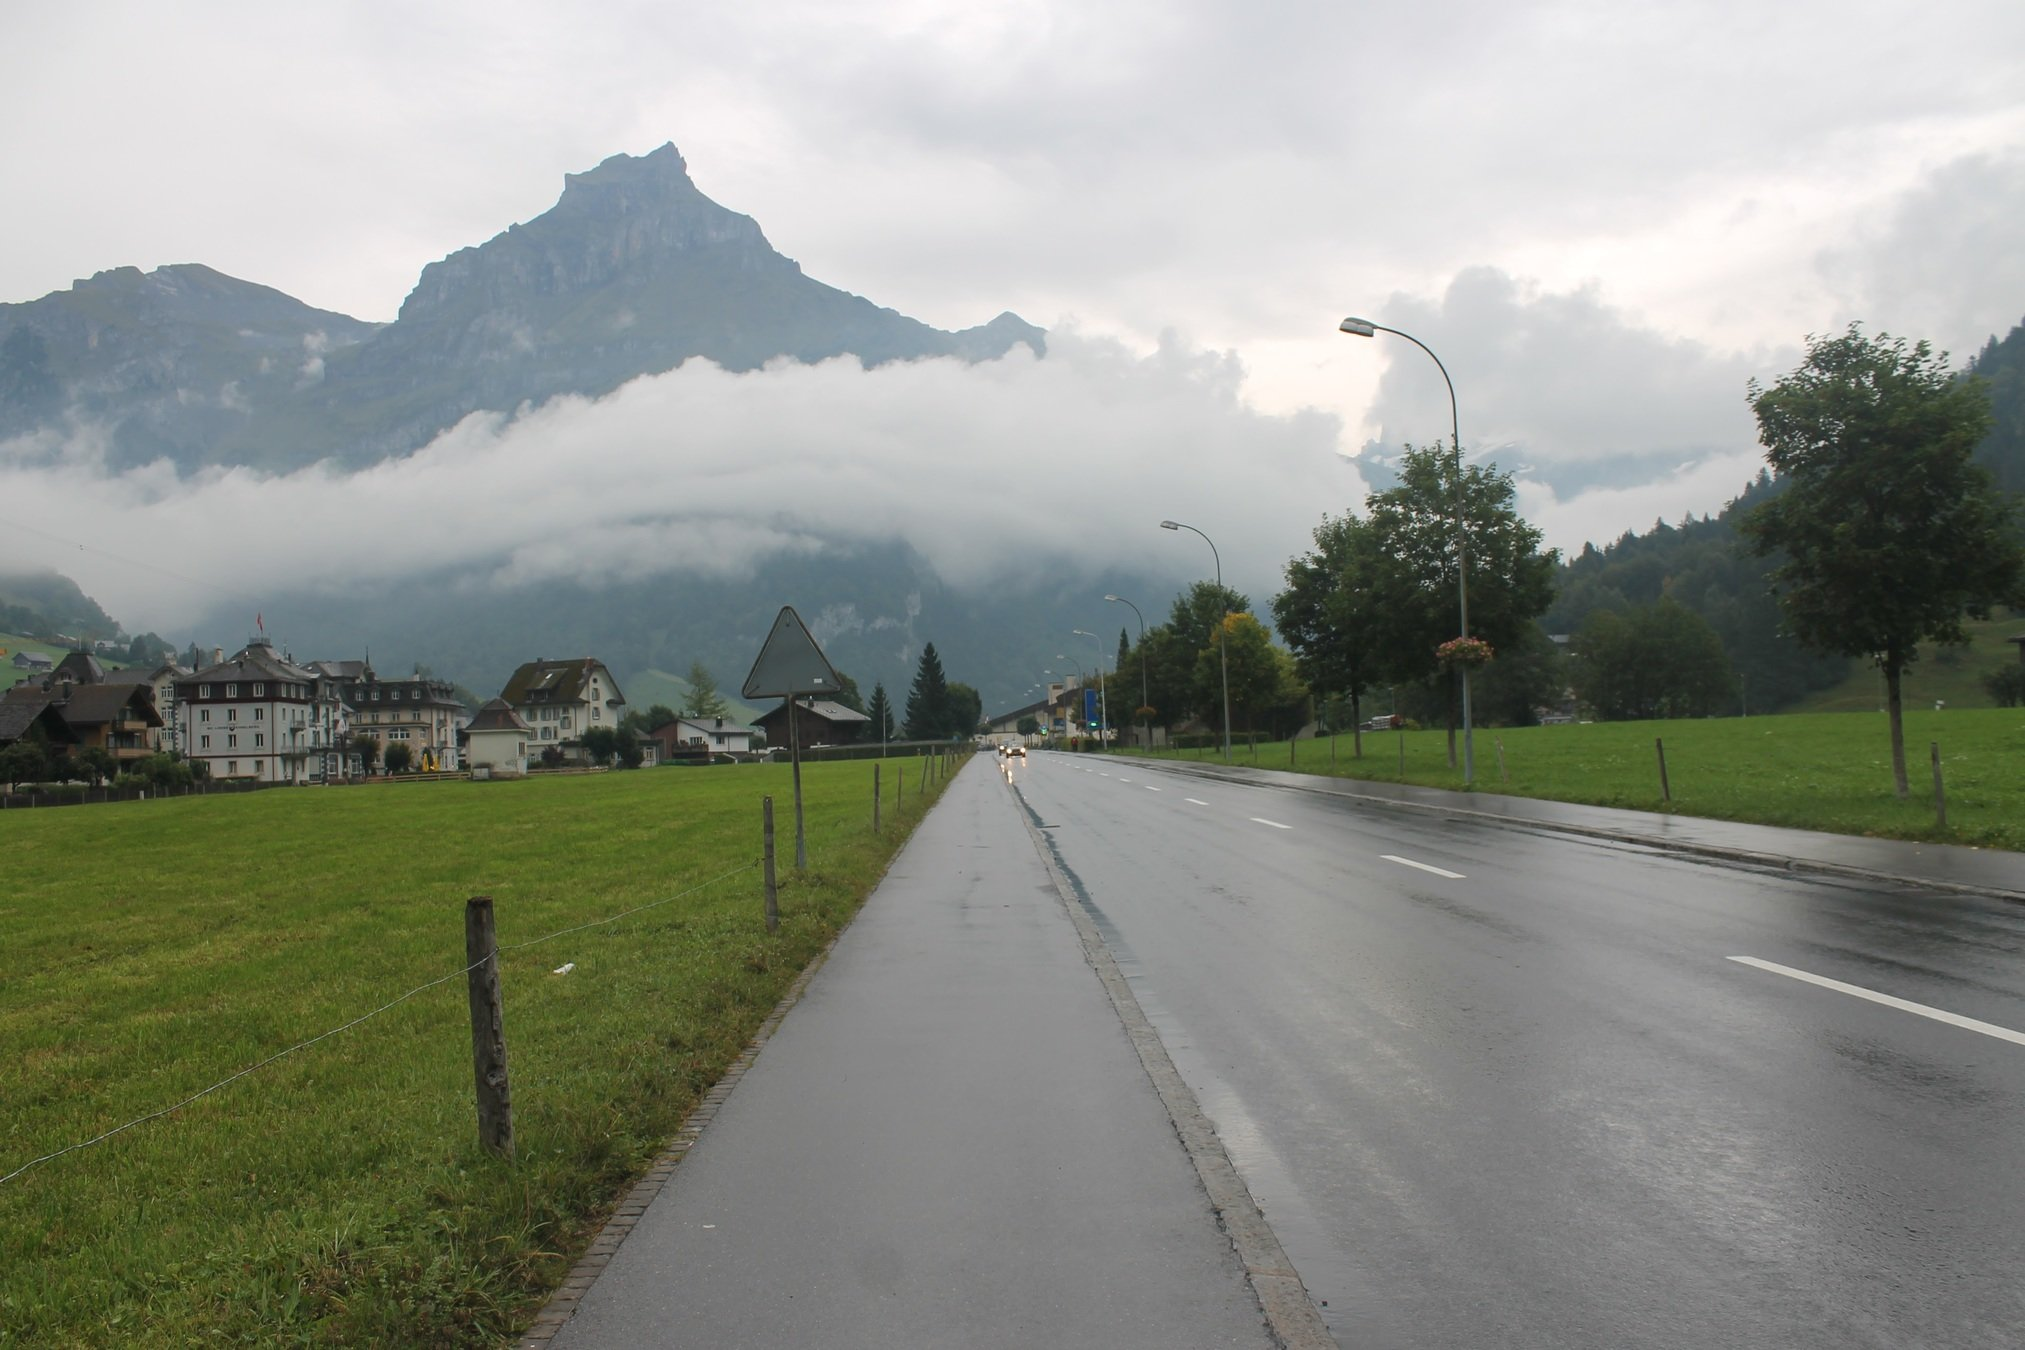
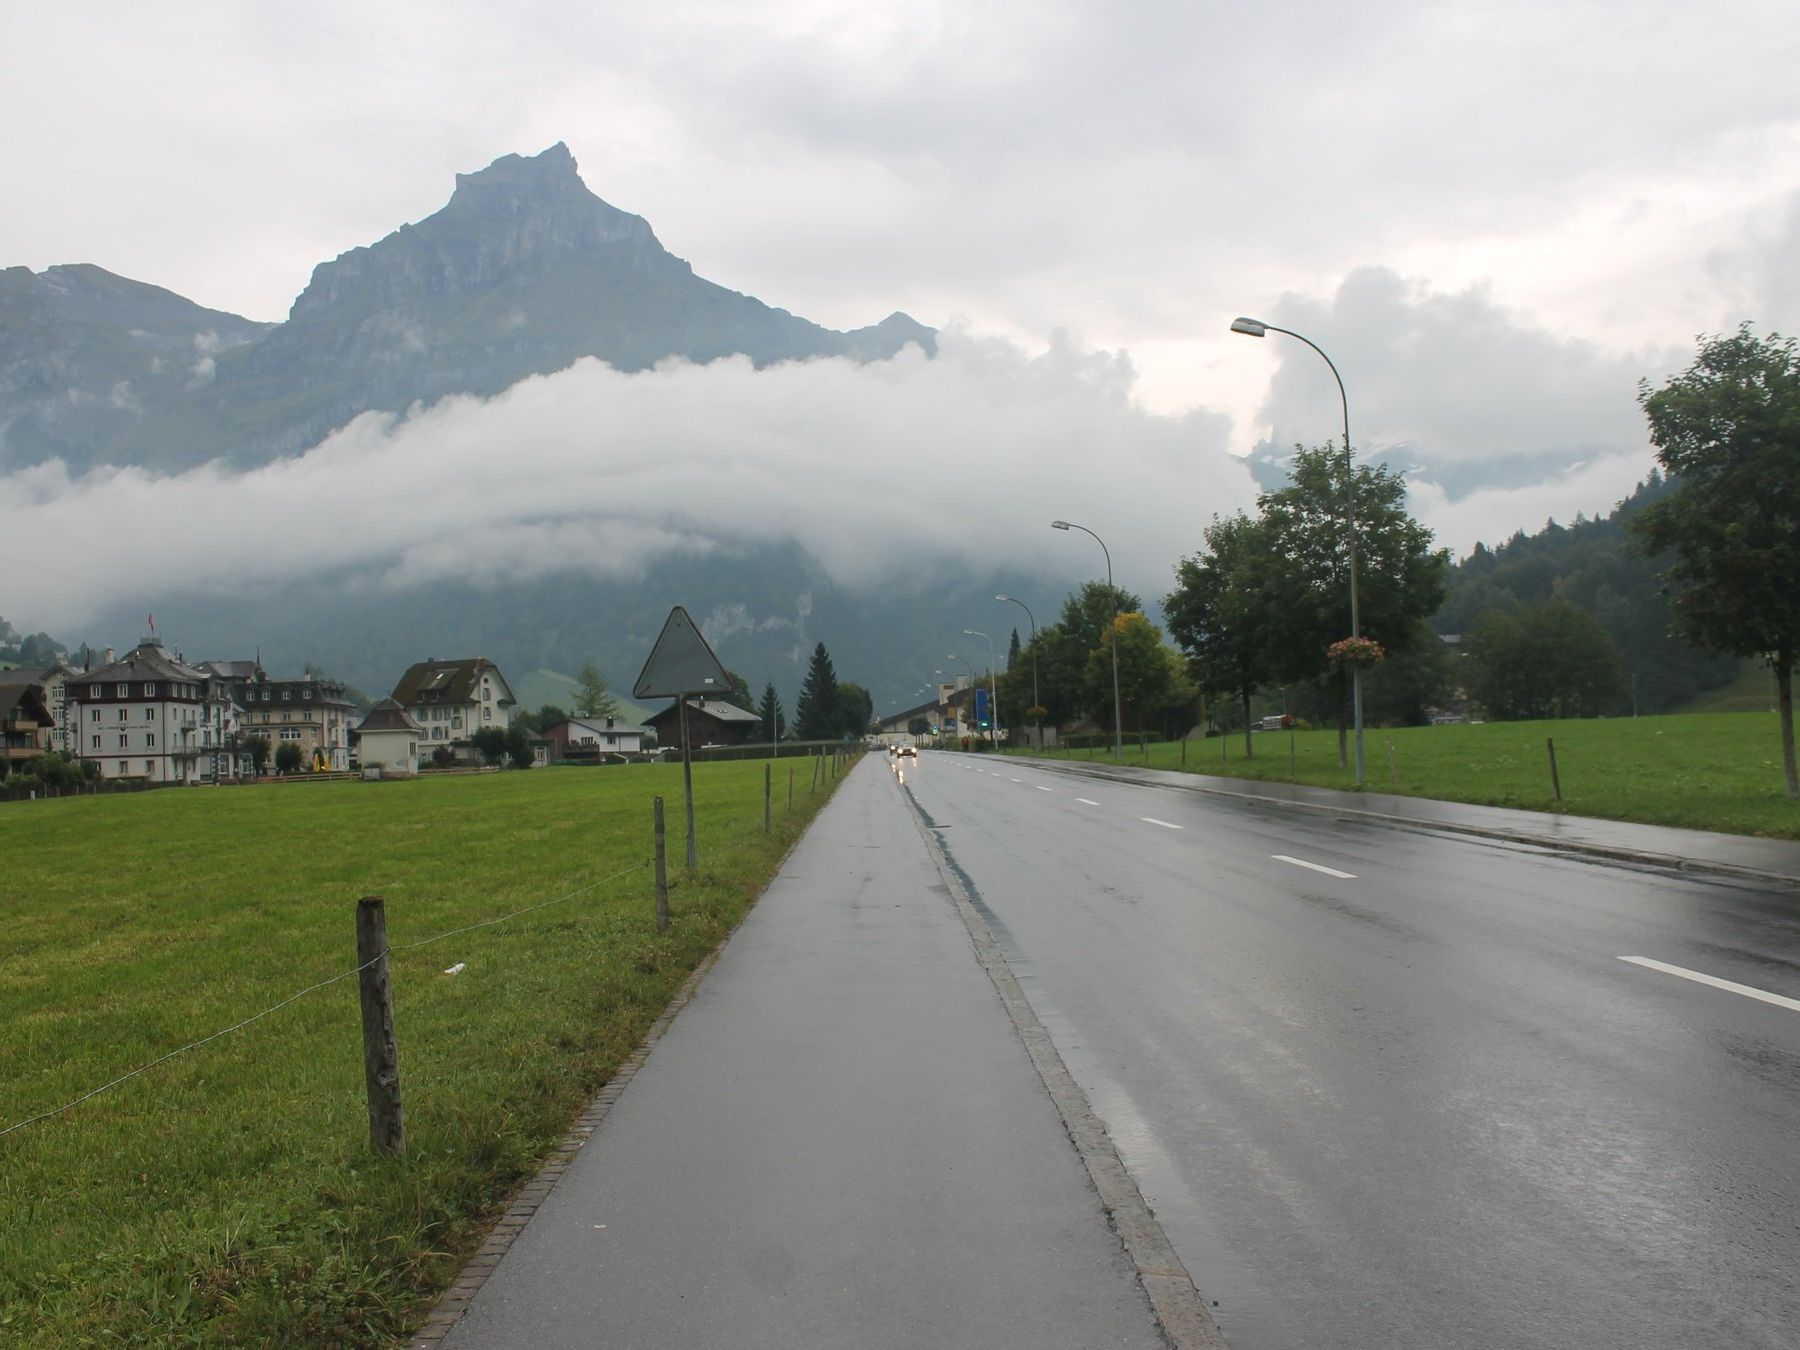
Modified image size

diff --git a/mount-titlis-switzerland/index.html b/mount-titlis-switzerland/index.html
@@ -41,7 +41,7 @@
 <div class="sl-block" data-block-type="text" style="height: auto; width: 1440px; left: 240px; top: 936px;" data-name="text-da8b89" data-block-id="96077f29fceaf966dab889a9a26d62f7"><div class="sl-block-content" data-placeholder-tag="p" data-placeholder-text="Text" style="z-index: 12; color: rgb(208, 224, 227);" dir="ui">
 <h2><strong>டிட்லிஸ் மலை, சுவிட்சர்லாந்து</strong></h2>
 </div></div>
-<div class="sl-block" data-block-type="image" style="width: 1620px; height: 1080px; left: 150px; top: 0px; min-width: 1px; min-height: 1px;" data-name="image-6de094" data-block-id="d69e9dc798c02c3d6a65d29f8ec484ed"><div class="sl-block-style" style="z-index: 10; opacity: 0.95;"><div class="sl-block-content" style="z-index: 10; border-width: 1px; border-color: rgb(240, 241, 235); border-style: solid;"><img style="" data-natural-width="2025" data-natural-height="1350" data-lazy-loaded="" data-src="mount-titlis-switzerland/944a71e6846caa770de24a1c6fa61ed2.jpg"></div></div></div>
+<div class="sl-block" data-block-type="image" style="width: 1440.69px; height: 1080px; left: 240px; top: 0px; min-width: 1px; min-height: 1px;" data-name="image-6de094" data-block-id="d69e9dc798c02c3d6a65d29f8ec484ed"><div class="sl-block-style" style="z-index: 10; opacity: 0.95;"><div class="sl-block-content" style="z-index: 10; border-width: 1px; border-color: rgb(240, 241, 235); border-style: solid;"><img style="left: -84px; top: 0px; width: 1620px; height: 1080px;" data-natural-width="2025" data-natural-height="1350" data-lazy-loaded="" data-crop-x="0.051973" data-crop-y="0" data-crop-width="0.889317" data-crop-height="1" data-src="mount-titlis-switzerland/944a71e6846caa770de24a1c6fa61ed2.jpg"></div></div></div>
 <div class="sl-block" data-block-type="text" style="width: 829.898px; left: 545.051px; top: 1019px; height: auto;" data-block-id="b8ace10c40f69883d2e9993240265689" data-name="text-e60d01"><div class="sl-block-style" style="z-index: 13; opacity: 0.67;"><div class="sl-block-content" data-placeholder-tag="h2" data-placeholder-text="Title Text" style="z-index: 13; color: rgb(12, 52, 61); background-color: rgb(208, 224, 227); border-style: solid; border-width: 1px; border-radius: 20px; border-color: rgb(170, 170, 170); text-align: center;">
 <h2>September 9, 2014</h2>
 </div></div></div></section><section data-id="8fe422bca12f0f392f2db43baec813d4"><div class="sl-block" data-block-type="image" style="width: 1620px; height: 1080px; left: 150px; top: 0px; min-width: 1px; min-height: 1px;" data-block-id="c006d8b7778a79b8ec9985ddf53fda13"><div class="sl-block-content" style="z-index: 10; border-style: solid; border-width: 1px; border-radius: 20px; border-color: rgb(240, 241, 235);"><img style="" data-natural-width="2025" data-natural-height="1350" data-lazy-loaded="" data-src="mount-titlis-switzerland/9bd0bad56bf84f6eb5b684edd014a789.jpg"></div></div>
@@ -70,7 +70,7 @@
 		</div>
 
 		<script>
-			var SLConfig = {"deck": {"id":2038857,"slug":"mount-titlis-switzerland","title":"டிட்லிஸ் மலை சுவிட்சர்லாந்து | Mount Titlis Switzerland","description":"","width":1920,"height":1080,"margin":0.05,"visibility":"self","published_at":null,"sanitize_messages":null,"thumbnail_url":"https://s3.amazonaws.com/media-p.slid.es/thumbnails/17dd29de14fe7ffc4412d811be8a9be9/thumb.jpg?1612755000","view_count":0,"user":{"id":1370066,"username":"apvijay","name":"","description":"","thumbnail_url":"https://www.gravatar.com/avatar/09a27f3314ab4d0f4dca383842baf62f?s=140\u0026d=https%3A%2F%2Fstatic.slid.es%2Fimages%2Fdefault-profile-picture.png","account_type":"pro","team_id":null,"settings":{"id":5761574,"present_controls":true,"present_upsizing":true,"present_pointer":false,"present_notes":true,"default_deck_tag_id":null}},"background_transition":"slide","transition":"slide","theme_id":null,"theme_font":"montserrat","theme_color":"sand-blue","auto_slide_interval":0,"comments_enabled":true,"forking_enabled":false,"rolling_links":false,"center":false,"shuffle":false,"should_loop":false,"share_notes":false,"slide_number":false,"slide_count":22,"rtl":false,"version":2,"collaborative":false,"deck_user_editor_limit":3,"data_updated_at":1612755000301,"font_typekit":null,"font_google":null,"time_limit":null,"navigation_mode":"default","upsizing_enabled":true,"notes":{}}};
+			var SLConfig = {"deck": {"id":2038857,"slug":"mount-titlis-switzerland","title":"டிட்லிஸ் மலை சுவிட்சர்லாந்து | Mount Titlis Switzerland","description":"","width":1920,"height":1080,"margin":0.05,"visibility":"self","published_at":null,"sanitize_messages":null,"thumbnail_url":"https://s3.amazonaws.com/media-p.slid.es/thumbnails/17dd29de14fe7ffc4412d811be8a9be9/thumb.jpg?1612755606","view_count":0,"user":{"id":1370066,"username":"apvijay","name":"","description":"","thumbnail_url":"https://www.gravatar.com/avatar/09a27f3314ab4d0f4dca383842baf62f?s=140\u0026d=https%3A%2F%2Fstatic.slid.es%2Fimages%2Fdefault-profile-picture.png","account_type":"pro","team_id":null,"settings":{"id":5761574,"present_controls":true,"present_upsizing":true,"present_pointer":false,"present_notes":true,"default_deck_tag_id":null}},"background_transition":"slide","transition":"slide","theme_id":null,"theme_font":"montserrat","theme_color":"sand-blue","auto_slide_interval":0,"comments_enabled":true,"forking_enabled":false,"rolling_links":false,"center":false,"shuffle":false,"should_loop":false,"share_notes":false,"slide_number":false,"slide_count":22,"rtl":false,"version":2,"collaborative":false,"deck_user_editor_limit":3,"data_updated_at":1612755605963,"font_typekit":null,"font_google":null,"time_limit":null,"navigation_mode":"default","upsizing_enabled":true,"notes":{}}};
 
 
 			// Use local fonts
